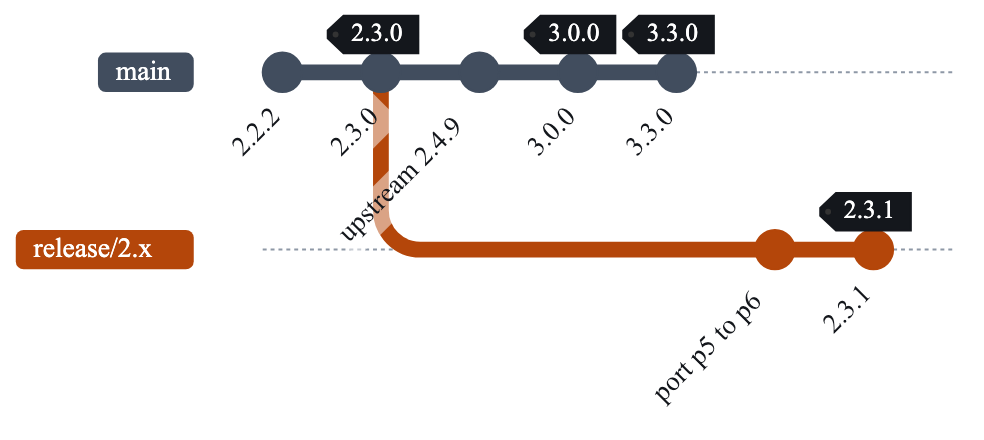
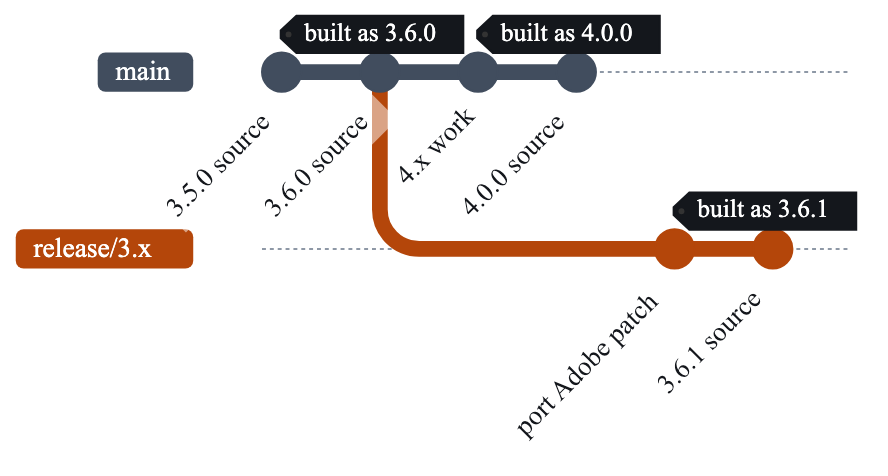
Make 3.x the first grace line in the proposal
The policy starts at the 3.x -> 4.x transition, so the examples now use 3.x
instead of 2.x: the grace line is the last 3.x release when 4.0.0 ships,
grace releases are patch versions on it, and release/3.x is reset to the
commit that release was built from. The existing release/3.x is the stale
3.0 staging branch with no commits of its own.

Also corrects the no-backlog claim for 2.x: Adobe has published isolated
patches for 2.4.8-p5 since, which #356's demo ported.

Claude-Session: https://claude.ai/code/session_0145ePWxG5QhuKfiSjku3SD4

diff --git a/RELEASE-GRACE-WINDOW-PROPOSAL.md b/RELEASE-GRACE-WINDOW-PROPOSAL.md
@@ -54,10 +54,20 @@ gantt
 > releases for six months after the following major reaches GA. During that
 > window we track upstream patch releases for the base Magento version.
 
+The first line to get a grace window is **3.x, when 4.0.0 ships**. 2.x is not
+retrofitted (see Recommendation).
+
+The grace line is **the last 3.x release available when 4.0.0 ships**. The
+examples below use 3.6.0 for it; the real number is whatever 3.x is at by then.
+Merchants on earlier 3.x releases get fixes by moving to the latest 3.x — a
+step within the same line, on the same Magento 2.4.9 base, which a `^3.0`
+constraint picks up automatically. That mirrors Adobe, which supports the latest
+patch of each line rather than every release in it.
+
 Scope rules:
 
 - **Security and critical regressions only.** No feature backports.
-- **Patch-level versions only** — `2.3.1`, `2.3.2`. Never a new minor on a line
+- **Patch-level versions only** — `3.6.1`, `3.6.2`. Never a new minor on a line
   in its grace window; a minor signals features.
 - **Event-driven, not scheduled.** We build the old line only when Adobe ships a
   patch for its base. No upstream drop, no release.
@@ -70,8 +80,8 @@ or a separate team, which is how Ubuntu and Debian do it.
 
 A six-month grace never approaches that. The old base stays inside Adobe's
 support window for the whole period, so every grace release is **forwarding
-work, not authoring work**. Applied to 2.x, the window would have closed in
-December 2026 — about eighteen months clear of 2.4.8's EOL.
+work, not authoring work**. 3.x is built on Magento 2.4.9, which Adobe supports
+until 2029-05-31, so a six-month window after 4.0.0 closes long before that.
 
 Adobe's patch rhythm is close to bi-monthly (`2.4.8` Apr 2025 → `p1` Jun →
 `p2` Aug → `p3` Oct → `p4` Mar 2026 → `p5` May), so a six-month window catches
@@ -80,30 +90,33 @@ fifteen for a real LTS.
 
 ## Mechanics
 
-`main` has already moved to 2.4.9, so the old line cannot be built from it. Nor
-from the tracking branch: `2.3.0...2.4-develop` in `mageos-magento2` is
-**diverged, 10,272 commits ahead**. The old line branches from the **release
-tag**, and upstream patches arrive as a narrow cherry-pick.
+`main` will have moved to 4.x, so the grace line cannot be built from it, nor
+from a tracking branch: for 2.x, `2.3.0...2.4-develop` in `mageos-magento2` was
+**diverged, 10,272 commits ahead**. The grace line branches from the commit the
+last 3.x release was built from, and each security fix is ported onto it.
 
 ```mermaid
 gitGraph
-    commit id: "2.2.2"
-    commit id: "2.3.0" tag: "2.3.0"
-    branch release/2.x
+    commit id: "3.5.0 source"
+    commit id: "3.6.0 source" tag: "built as 3.6.0"
+    branch release/3.x
     checkout main
-    commit id: "upstream 2.4.9"
-    commit id: "3.0.0" tag: "3.0.0"
-    commit id: "3.3.0" tag: "3.3.0"
-    checkout release/2.x
-    commit id: "port p5 to p6"
-    commit id: "2.3.1" tag: "2.3.1"
+    commit id: "4.x work"
+    commit id: "4.0.0 source" tag: "built as 4.0.0"
+    checkout release/3.x
+    commit id: "port Adobe patch"
+    commit id: "3.6.1 source" tag: "built as 3.6.1"
 ```
 
-1. **Cut `release/N.x` from the release tag**, never from `main`.
-2. **Fetch the upstream patch tags.** The daily sync moves branch content but
-   not tags — `2.4.8-p5` does not exist in `mageos-magento2`. The histories are
-   connected (`mirror-magento2`'s `2.4-develop` head resolves inside
-   `mageos-magento2`), so git can do the work once the tags are fetched.
+1. **At 4.0.0 GA, point `release/3.x` at the commit 3.6.0 was built from** —
+   the parent of the CI "Release 3.6.0" commit the tag sits on, which only
+   rewrites versions.
+   The existing `release/3.x` in `mageos-magento2` is the branch used to prepare
+   3.0: its last commit is from 2026-05-18, it is 59 commits behind 3.4.0, and
+   it has no commits of its own, so resetting it loses nothing.
+2. **Port Adobe's isolated patch onto it.** Adobe publishes one per upstream
+   line; `bin/apply-security-patch.js` from #356 rewrites its `vendor/` paths
+   to source-tree paths and applies it, one review branch per line.
 3. **Build with a release refs file.**
 
 ## Required changes
@@ -115,10 +128,11 @@ Only two repositories need edits. The ~25 `mageos-*` build repos need
 
 - [x] `src/make/mageos-release.js`, `src/release-build-tools.js` — a new
       release now honours each repository's and metapackage's `fromTag`, which
-      until now only the history rebuild checked. Without this, a 2.x release
-      built with today's config would pick up `magento-zf-captcha`,
-      `magento-zf-soap` and the minimal edition, all of which start at 3.0.0.
-      Releases on the current line are unaffected.
+      until now only the history rebuild checked. Without this, a release on
+      an older line built with a later config picks up repositories and
+      metapackages that start after it — for example, a 2.x release would get
+      `magento-zf-captcha`, `magento-zf-soap` and the minimal edition, which
+      start at 3.0.0. Releases on the current line are unaffected.
 - [x] `.github/workflows/build-mageos-release.yml` — new optional
       `release_refs_file` input.
 - [x] `.github/workflows/deploy.yml` — threads it through as
@@ -135,14 +149,13 @@ refs file only needs a branch where there are patches. Everything else builds
 from the outgoing line's last tag, which every repository already has:
 
 ```js
-module.exports = {'*': '2.3.0', 'magento2': 'release/2.x'};
+// src/build-config/mage-os-release-refs/3.6.1.js
+module.exports = {'*': '3.6.0', 'magento2': 'release/3.x'};
 ```
 
 **Minimal edition.** It is built by the same release, as the
 `product-minimal-edition` and `project-minimal-edition` metapackages, so it
-follows the same grace window: a 3.x security release after 4.0 includes it,
-and a 2.x one correctly leaves it out, since the minimal edition starts at
-3.0.0. The supported-version data in `mage-os/github-actions` has no
+follows the same grace window: a 3.x security release after 4.0 includes it. The supported-version data in `mage-os/github-actions` has no
 minimal-edition entries at all, so it is not in the CI matrix today either.
 
 No change is needed in `.github/workflows/push-release-tag.yml`: it pushes tag
@@ -151,25 +164,29 @@ already points at the right commit.
 
 ### 2. `mage-os/github-actions` — a data change, not code
 
-- [ ] `supported-version/src/versions/mage-os/individual.json` — stop setting a
-      line's `eol` to its successor's release date. For the final release of a
-      major line, set `eol` to the next major's GA **plus six months**, so the
-      grace line stays in `currently-supported` and keeps its CI matrix.
+- [ ] `supported-version/src/versions/mage-os/individual.json` — today each
+      version's `eol` is the next version's release date. That stays right for
+      3.0.0 to 3.5.0, since only the latest 3.x is supported. Two changes:
+      - the last 3.x release (3.6.0) gets `eol` = **4.0.0's release date plus
+        six months**;
+      - each grace release (3.6.1, 3.6.2, …) gets its own entry with the same
+        `eol`.
+- [ ] Add the minimal edition, which has no entries today.
 
 `getCurrentlySupportedVersions` already filters on `release`/`eol`, so no new
 mechanism is required — only the dates change.
 
 ### 3. The `mageos-*` build repositories — no code changes
 
-- [ ] Create `release/N.x` at the final tag of the outgoing line, **lazily** —
-      only for repos that actually diverge. Most satellites never change within
-      a six-month window.
-- [ ] `mageos-magento2` already has `release/3.x` and `release/4.x`. It has no
-      `release/2.x`, which is why retrofitting the 2.x line is the awkward case.
+- [ ] Branch `release/3.x` **lazily** — only in repos that receive a patch.
+      The rest build from their `3.6.0` tag through the refs file's `*` key.
+- [ ] In `mageos-magento2`, reset the existing, stale `release/3.x` at 4.0.0
+      GA (see Mechanics).
 
 ### 4. Release skills — follow-up, deliberately not in this PR
 
-`prep-release-prs` merges `release/N.x` **into** the default branch. Under this
+`prep-release-prs` merges `release/N.x` **into** the default branch, and
+`release/3.x` is exactly the name it would pick up. Under this
 policy a grace branch must not be merged into trunk while it is live, so that
 skill needs a guard before the first grace window opens — it is the one that
 could actively cause harm. `audit-release-branches` would want to distinguish a
@@ -201,13 +218,14 @@ early-project churn rather than steady state.
 
 Adopt the policy **from the 3.x → 4.x transition**, and do not retrofit 2.x:
 
-- `release/3.x` already exists on `mageos-magento2`, cut at the right moment.
-  There is no `release/2.x`, so retrofitting means reconstructing it after the
-  fact.
-- 3.x has been out since June and is on its fifth release; most people who were
-  going to move have moved.
-- There is no upstream backlog to catch up on — the newest tag on that line is
-  still `2.4.8-p5`. Adopting the policy today costs zero releases.
+- 2.x ended in May 2026 and 3.x has had five releases since. Most people who
+  were going to move have moved.
+- Retrofitting would not be free. Adobe has published isolated patches for
+  2.x's base (2.4.8-p5) in July, August and September 2026; #356's demo ported
+  all of them, with one hunk resolved by hand. Supporting 2.x now means
+  shipping that backlog.
+- Starting with 3.x means the branch is reset at the right moment rather than
+  reconstructed after the fact.
 
 For current 2.x holdouts the honest message is that 2.x remains installable
 indefinitely from repo.mage-os.org and the supported path is 3.x — with a
@@ -219,7 +237,8 @@ commitment that this is the last time a line ends without warning.
   tag plumbing is the real work.
 - **Recurring:** two or three extra builds per major cycle, only when upstream
   ships a patch.
-- Subsequent majors are cheaper, because `release/N.x` will already exist.
+- Subsequent majors repeat the same steps: at 5.0.0, the last 4.x release
+  becomes the grace line.
 
 ---
 

diff --git a/src/build-config/mage-os-release-refs/README.md b/src/build-config/mage-os-release-refs/README.md
@@ -13,10 +13,10 @@ of them; set it to the outgoing line's last tag, and name a branch only for the
 repositories that received patches:
 
 ```js
-// src/build-config/mage-os-release-refs/2.3.1.js
+// src/build-config/mage-os-release-refs/3.6.1.js
 module.exports = {
-  '*': '2.3.0',
-  'magento2': 'release/2.x',
+  '*': '3.6.0',
+  'magento2': 'release/3.x',
 };
 ```
 
